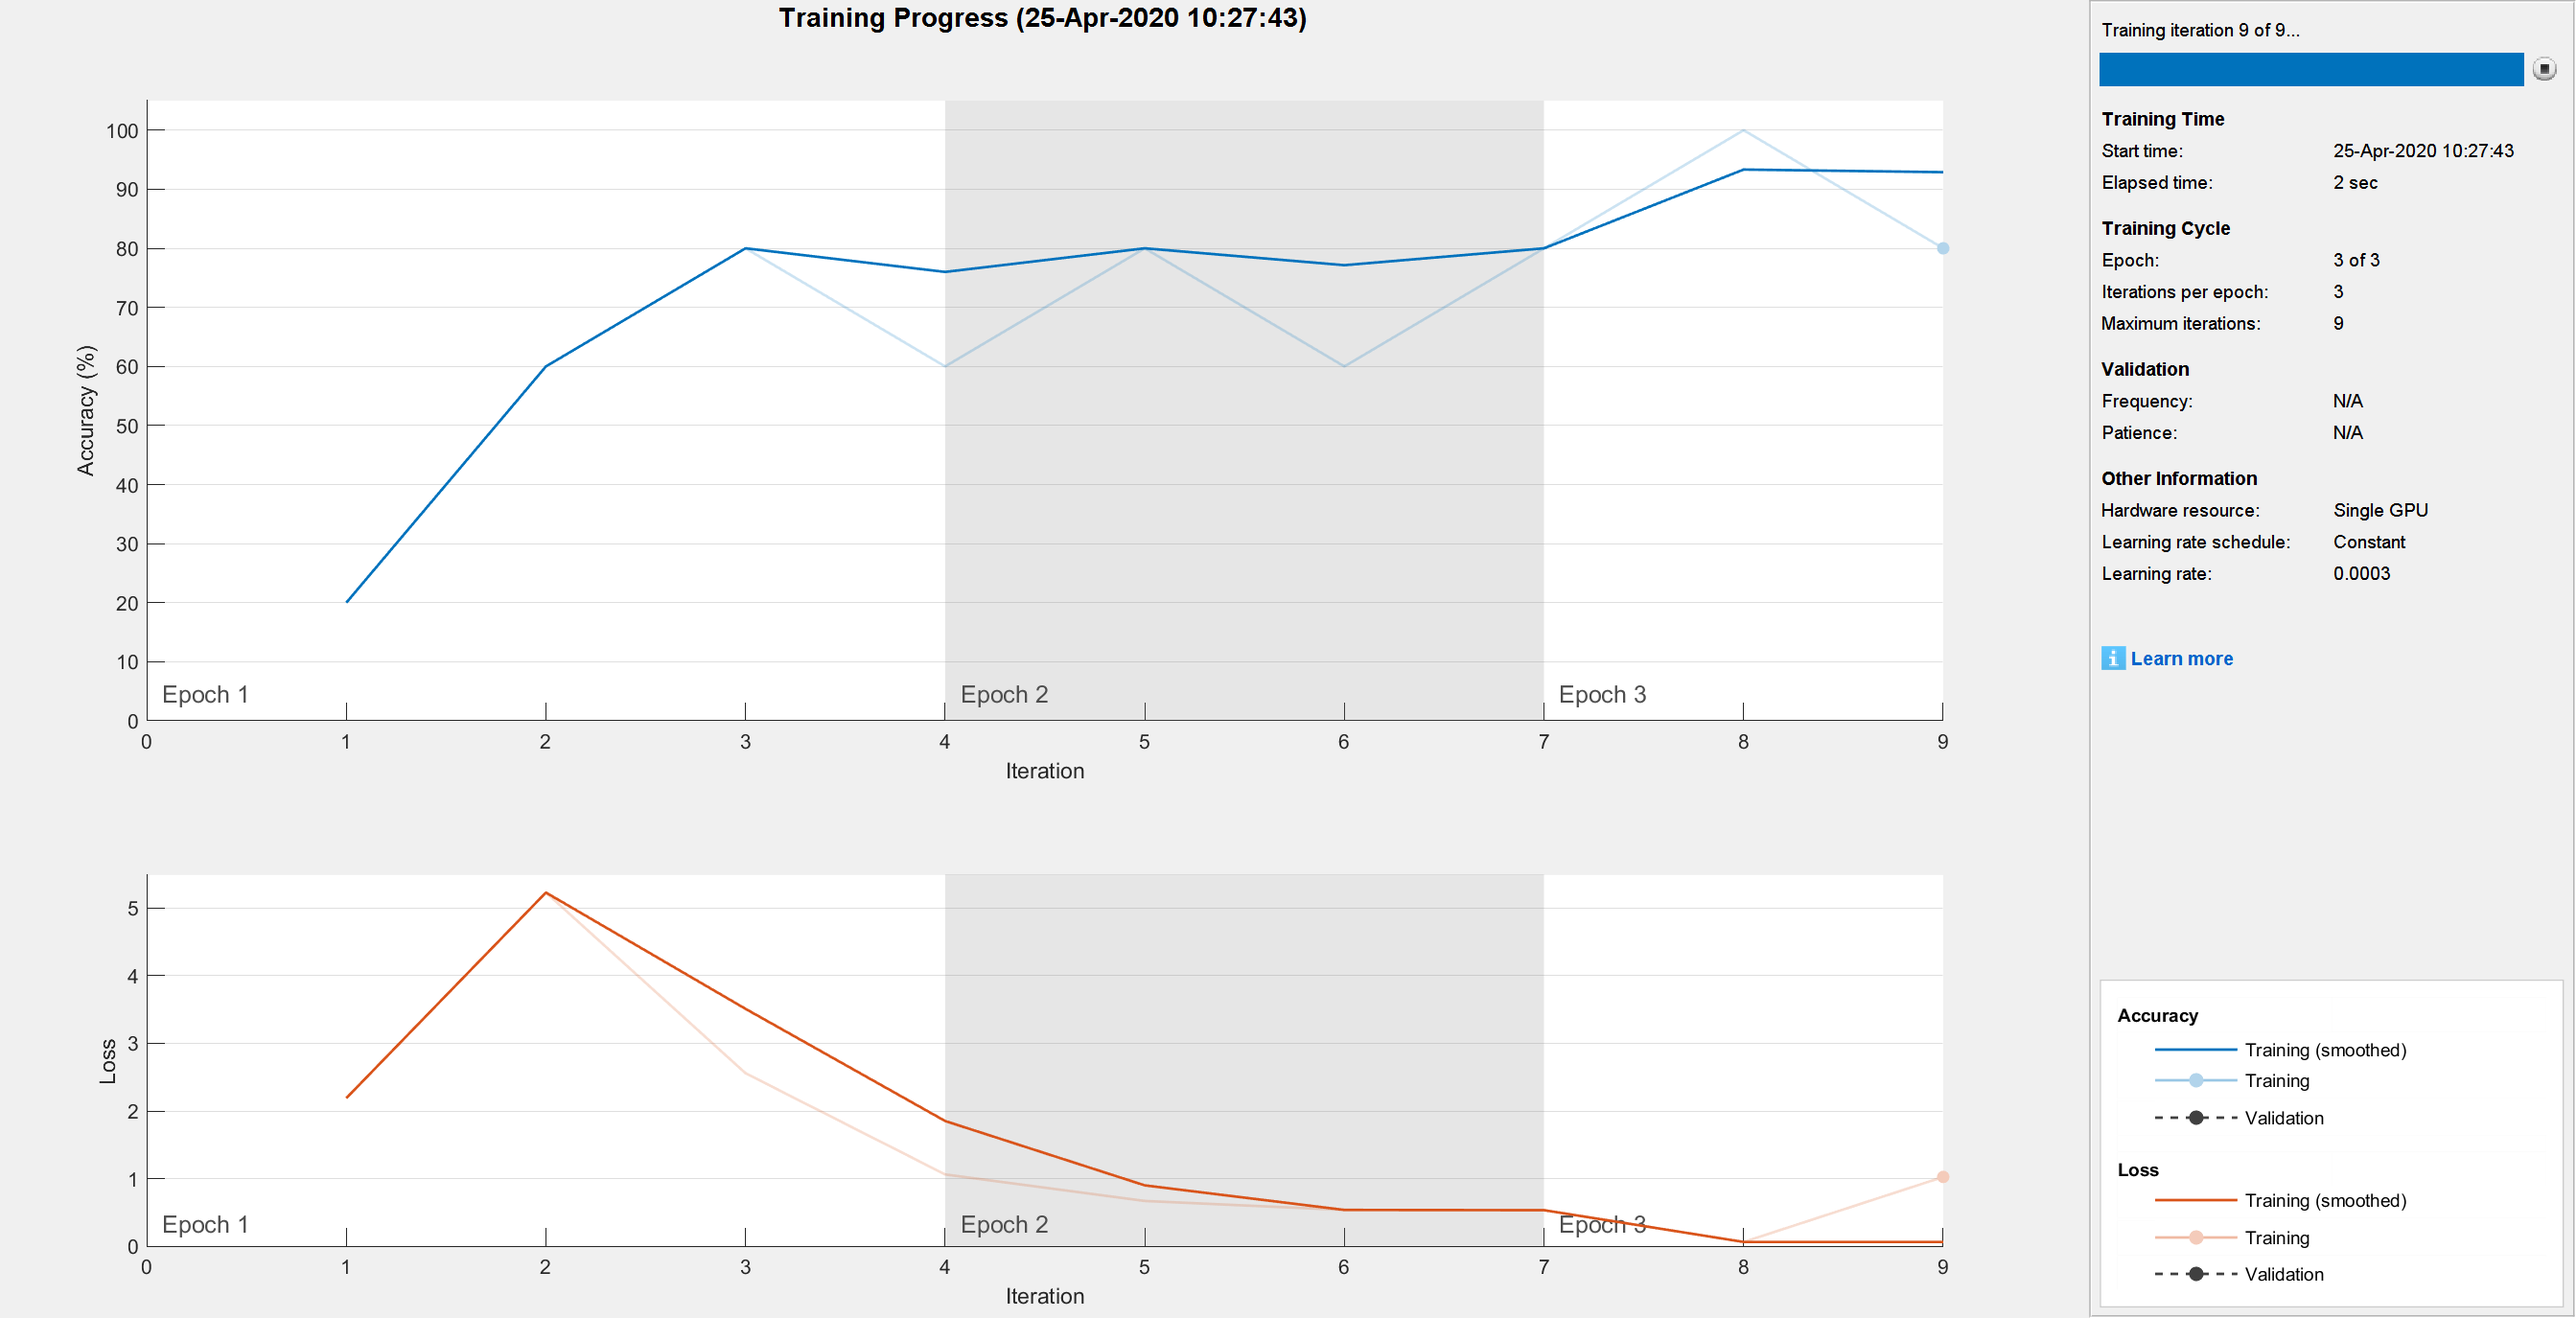
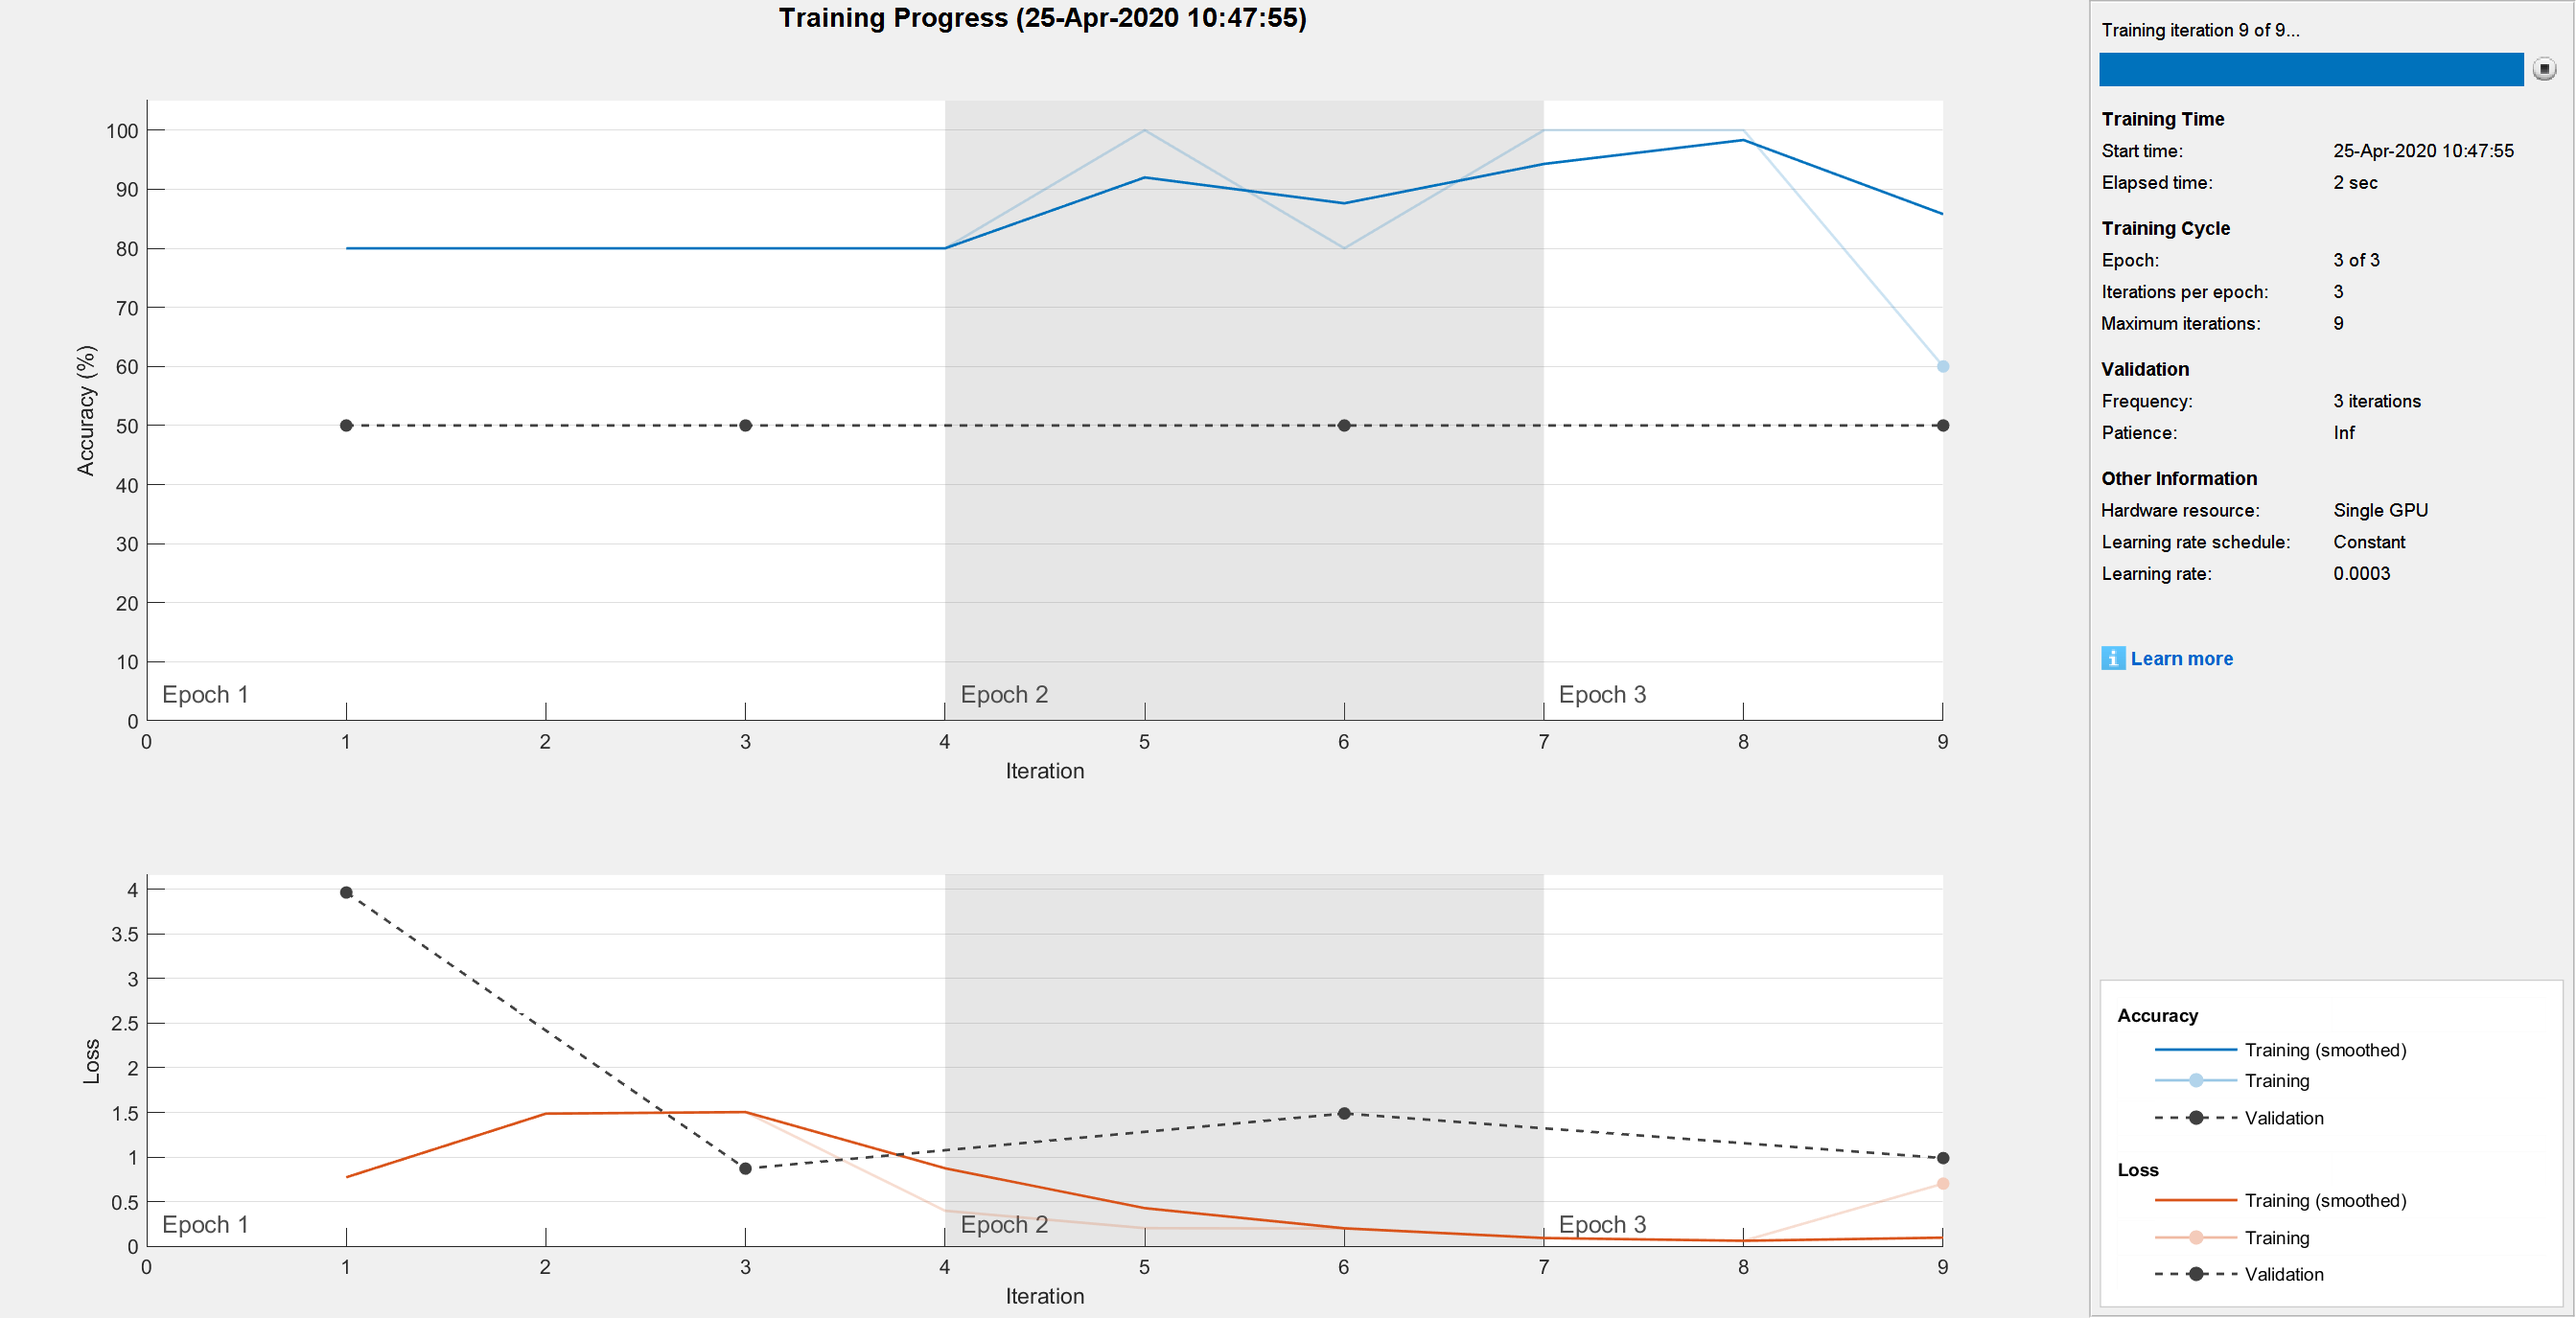
Validation set now also used for training of model.

diff --git a/trainDLN.m b/trainDLN.m
@@ -33,8 +33,12 @@ for n = 1:(size)
         'IncludeSubfolders',true, ...
         'Labels',imds.Labels(train_data));
     
+    % Partition validation set in addition to training set.
+    [imdsValidation, imdsTrain] = splitEachLabel(imdsTrain,1,'randomized');
+    
     % Training set identified
     augimdsTest = augmentedImageDatastore(inputSize(1:2),imdsTest);
+    augimdsValidation = augmentedImageDatastore(inputSize(1:2), imdsValidation);
     augimdsTrain = augmentedImageDatastore(inputSize(1:2),imdsTrain);
     
     % Assign charateristics of training model.
@@ -45,10 +49,11 @@ for n = 1:(size)
         'MaxEpochs',3, ...
         'InitialLearnRate',3e-4, ...
         'Shuffle','every-epoch', ...
+        'ValidationData',augimdsValidation, ...
+        'ValidationFrequency',3, ...
         'Verbose',false, ...
         'Plots','training-progress', ...
         'OutputFcn',@(info)saveIfDone(info, n));
-        % 'Plots','none');
 
     % Train network
     net = trainNetwork(augimdsTrain,DLN,options);
